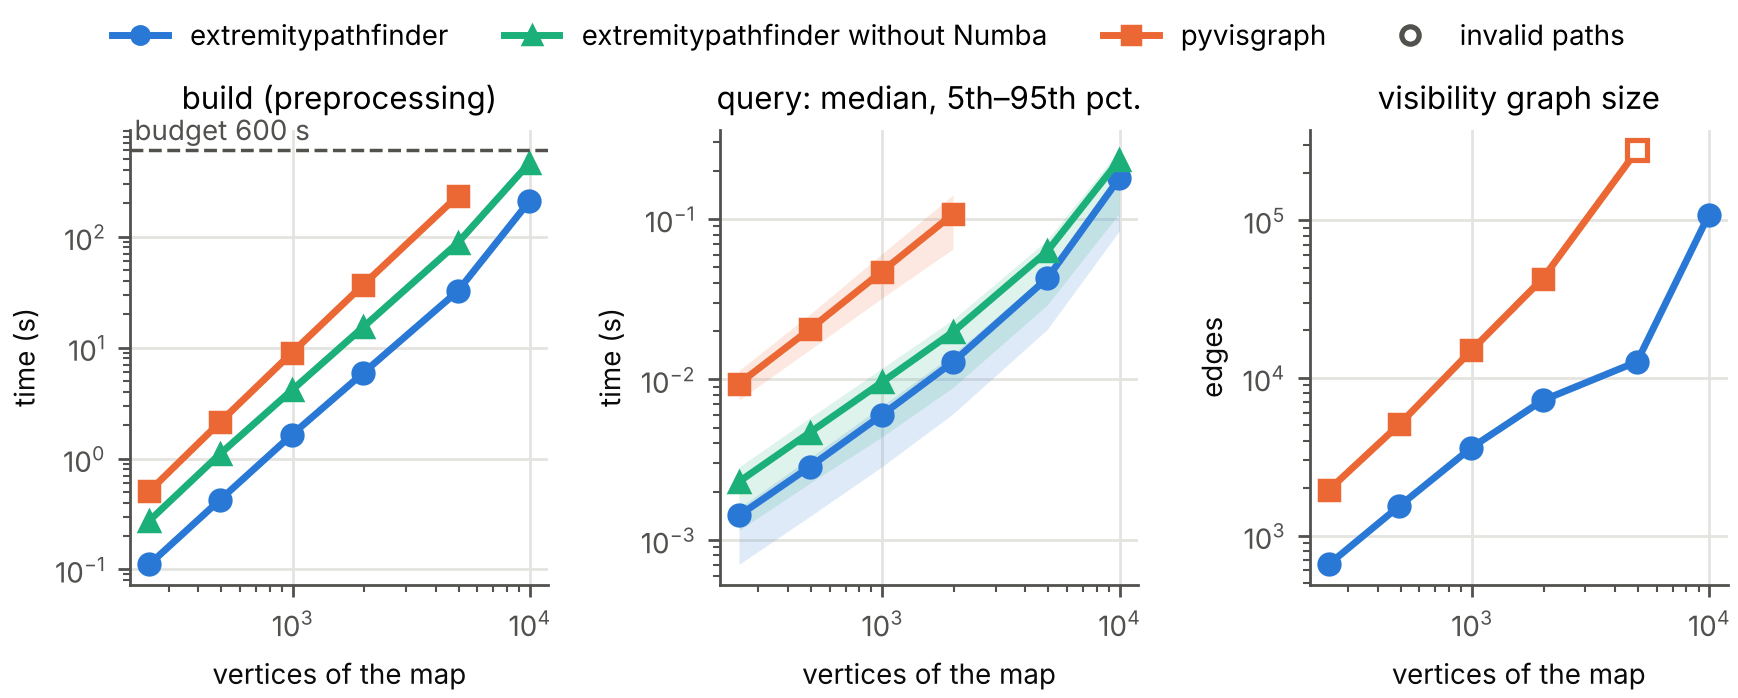
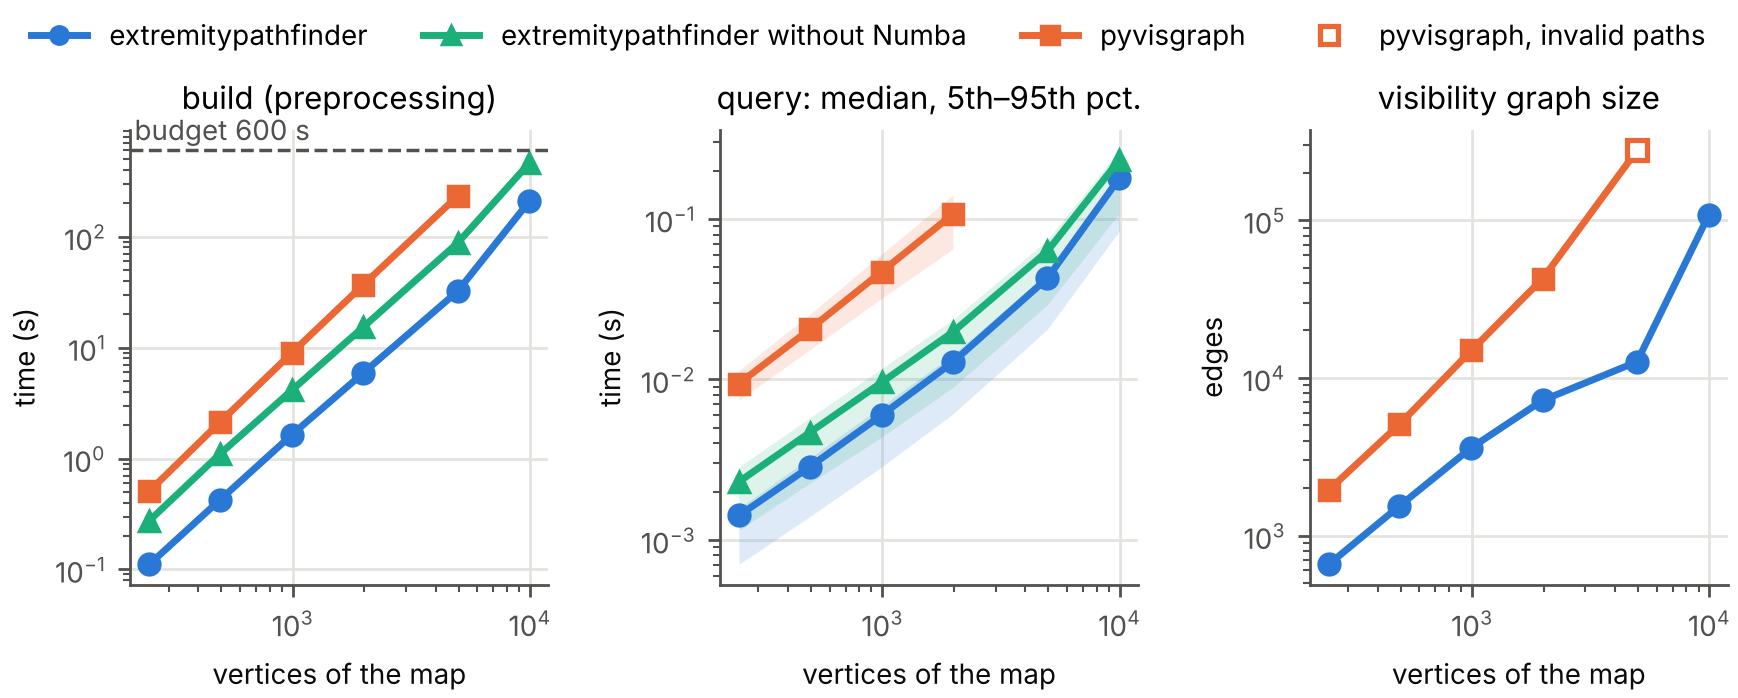
Paper figures: distinct vertices in the complete graph, legend and guide (review)
- complete_visibility_graph(): touching obstacles share vertices, which gave duplicate and
  zero-length edges (682 instead of 654); the test checks for them
- the legend entry of the invalid paths is pyvisgraph's hollow square
- performance guide: the numbers in the paper's text and captions are derived from the results too

Claude-Session: https://claude.ai/code/session_01XJqV78U3gUcCx52By7zjSH

Changed region(s): [[0.0, 0.0301, 0.9942, 0.0903]]

diff --git a/scripts/docs_figures.py b/scripts/docs_figures.py
@@ -404,7 +404,8 @@ def complete_visibility_graph(environment: PolygonEnvironment) -> list:
     holes = [Polygon(hole) for hole in environment.holes]
     free = prepared.prep(boundary.difference(union_all(holes)))
     rings = [boundary.exterior] + [hole.exterior for hole in holes]
-    vertices = [tuple(v) for v in environment.coords]
+    # distinct points: touching obstacles share vertices
+    vertices = list(dict.fromkeys(tuple(v) for v in environment.coords))
     # vertices lying on another polygon: there, obstacles touch each other or the boundary
     contacts = [
         Point(v)
@@ -435,6 +436,7 @@ def draw_graph_reduction(axes, marker_size: float = 3.5, path_width: float = 3.0
     )
     path, _ = environment.find_shortest_path(START, GOAL)
     complete = complete_visibility_graph(environment)
+    nr_points = len({tuple(v) for v in environment.coords})
     style = PlotStyle(
         graph_alpha=0.3,
         line_width=0.7,
@@ -466,7 +468,7 @@ def draw_graph_reduction(axes, marker_size: float = 3.5, path_width: float = 3.0
     )
     draw(environment, path, ax=axes[1], vertices=True, style=style)
     titles = (
-        f"complete visibility graph: {environment.nr_vertices} vertices, {len(complete):,} edges",
+        f"complete visibility graph: {nr_points} vertices, {len(complete):,} edges",
         (
             f"reduced visibility graph: {len(environment.extremity_indices)} extremities,"
             f" {environment.graph.number_of_edges()} edges"

diff --git a/tests/test_plotting.py b/tests/test_plotting.py
@@ -255,7 +255,11 @@ def test_complete_visibility_graph():
     )
 
     environment = PolygonEnvironment(BOUNDARY, [clockwise(h) for h in HOLES])
-    complete = {frozenset(edge) for edge in complete_visibility_graph(environment)}
+    edges = complete_visibility_graph(environment)
+    complete = {frozenset(edge) for edge in edges}
+    # no duplicates and no zero-length edges (two obstacles share a vertex)
+    assert len(complete) == len(edges)
+    assert all(len(edge) == 2 for edge in complete)
     coords = [tuple(c) for c in environment.coords]
     reduced = {frozenset((coords[i], coords[j])) for i, j in environment.graph.edges}
     assert reduced and reduced < complete

diff --git a/scripts/paper_figures.py b/scripts/paper_figures.py
@@ -98,12 +98,12 @@ def benchmark_sweep(results: dict, output_dir: Path):
             [],
             [],
             linestyle="none",
-            marker="o",
+            marker=plot.STYLE["pyvisgraph"]["marker"],
             markersize=5,
             markeredgewidth=1.5,
-            color=plot.TEXT_SECONDARY,
+            color=plot.STYLE["pyvisgraph"]["color"],
             markerfacecolor="white",
-            label="invalid paths",
+            label="pyvisgraph, invalid paths",
         )
     )
     fig.legend(

diff --git a/docs/contributing/performance.md b/docs/contributing/performance.md
@@ -59,7 +59,7 @@ without repeating the run.
 
 The tables and figures are rendered from the results, the text derived from them is not
 (the take-aways of the performance page, the comparison with pyvisgraph, the claims about Numba),
-nor the figures of the paper (cf. [Documentation](documentation.md#content)).
+nor the paper: its figures (cf. [Documentation](documentation.md#content)) and the numbers in its text and captions.
 It is marked with `.. benchmark-derived:` comments, each covering the text up to the next heading.
 A full run lists the files with one (or `git grep -n '\.\. benchmark-derived:'`). Update every marked passage in the pull request of the results.
 Mark new derived text the same way, and keep it qualitative (cf. [Documentation](documentation.md#content)).
